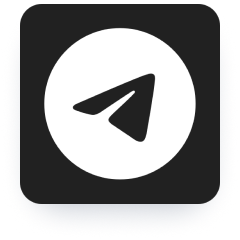
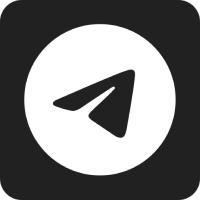
Shadow and button page 1 | BG removed on onboarding_7

diff --git a/app/(onboarding)/onboarding_7.tsx b/app/(onboarding)/onboarding_7.tsx
@@ -61,23 +61,31 @@ const Onboarding7: React.FC = () => {
         </Text>
       </View>
       <View style={styles.socialsContainer}>
-        <Pressable onPress={handlePress("website")}>
-          <Image
-            source={require("@/assets/images/onboarding/7/website.png")}
-            style={styles.image}
-          />
+        <Pressable onPress={handlePress("website")} style={styles.shadow}>
+          <View style={styles.imageWrapper}>
+            <Image
+              source={require("@/assets/images/onboarding/7/website.png")}
+              style={styles.image}
+            />
+          </View>
         </Pressable>
-        <Pressable onPress={handlePress("telegram")}>
-          <Image
-            source={require("@/assets/images/onboarding/7/telegram.png")}
-            style={styles.image}
-          />
+
+        <Pressable onPress={handlePress("telegram")} style={styles.shadow}>
+          <View style={styles.imageWrapper}>
+            <Image
+              source={require("@/assets/images/onboarding/7/telegram.png")}
+              style={styles.image}
+            />
+          </View>
         </Pressable>
-        <Pressable onPress={handlePress("twitter")}>
-          <Image
-            source={require("@/assets/images/onboarding/7/twitter.png")}
-            style={styles.image}
-          />
+
+        <Pressable onPress={handlePress("twitter")} style={styles.shadow}>
+          <View style={styles.imageWrapper}>
+            <Image
+              source={require("@/assets/images/onboarding/7/twitter.png")}
+              style={styles.image}
+            />
+          </View>
         </Pressable>
       </View>
     </View>
@@ -102,9 +110,21 @@ const styles = StyleSheet.create({
     gap: 20,
     marginTop: 60,
   },
+  shadow: {
+    shadowColor: "#000",
+    shadowOffset: { width: 0, height: 10 }, // Moves the shadow downwards
+    shadowOpacity: 0.3, // Increase opacity for a more pronounced shadow
+    shadowRadius: 8, // Increase radius for a softer, more diffuse shadow
+    elevation: 10, // Matches shadow on Android
+    borderRadius: 10, // Ensures rounded shadow if desired
+  },
+  imageWrapper: {
+    padding: 5, // Adds space around the image to prevent clipping of the shadow
+    borderRadius: 10, // Matches shadow radius for a consistent look
+  },
   image: {
-    width: 60,
-    height: 60,
+    width: 50,
+    height: 50,
   },
   title: {
     fontSize: scaledFontSize(22),

diff --git a/components/Onboarding/Onboarding.tsx b/components/Onboarding/Onboarding.tsx
@@ -178,11 +178,11 @@ export default function Onboarding() {
             scrollTo={handleNextButtonPress}
             percentage={currentIndex * (100 / (slides.length - 1))}
           />
-          {currentIndex >= 1 && currentIndex <= 3 && (
-            <View style={styles.paginatorContainer}>
+          <View style={styles.paginatorContainer}>
+            {currentIndex >= 1 && currentIndex <= 3 && (
               <Paginator data={slides.slice(1)} currentIndex={currentIndex} />
-            </View>
-          )}
+            )}
+          </View>
         </View>
       </ImageBackground>
     </View>
@@ -210,6 +210,7 @@ const styles = StyleSheet.create({
     gap: 20,
   },
   paginatorContainer: {
+    height: 20,
     marginTop: 10, // Adjust as needed for spacing
   },
 });

diff --git a/app/(onboarding)/_layout.tsx b/app/(onboarding)/_layout.tsx
@@ -91,10 +91,12 @@ export default function OnboardingLayout() {
               experimentalBlurMethod="dimezisBlurView"
             />
           )}
-          <Image
-            source={require("@/assets/images/onboarding/background.png")}
-            style={styles.backgroundImage}
-          />
+          {currentSegment !== "onboarding_7" && (
+            <Image
+              source={require("@/assets/images/onboarding/background.png")}
+              style={styles.backgroundImage}
+            />
+          )}
           <ScrollView
             ref={scrollViewRef}
             contentContainerStyle={styles.scrollViewContainer}

diff --git a/app/(onboarding)/onboarding_1.tsx b/app/(onboarding)/onboarding_1.tsx
@@ -180,10 +180,10 @@ const Onboarding1: React.FC = () => {
           }}
         />
         <Button
-          title={"To onboarding 6"}
+          title={"To onboarding 7"}
           onPress={() => {
             AsyncStorage.setItem("continueWithoutFunding", "true");
-            router.push("/(onboarding)/onboarding_6");
+            router.push("/(onboarding)/onboarding_7");
           }}
         />
       </View>
